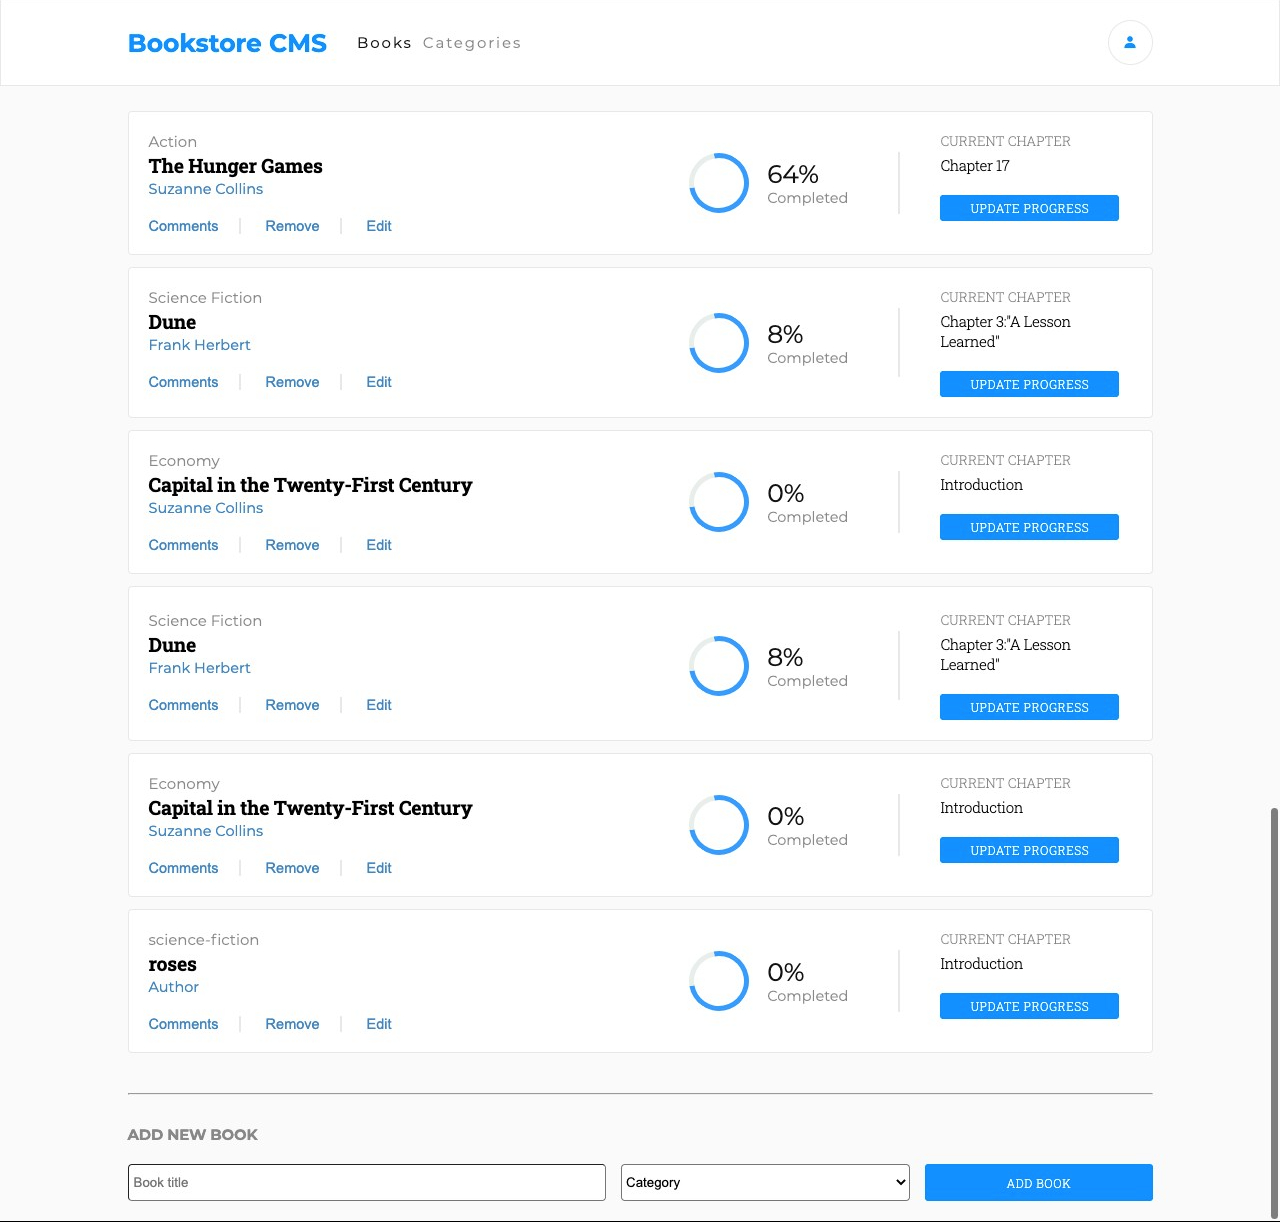
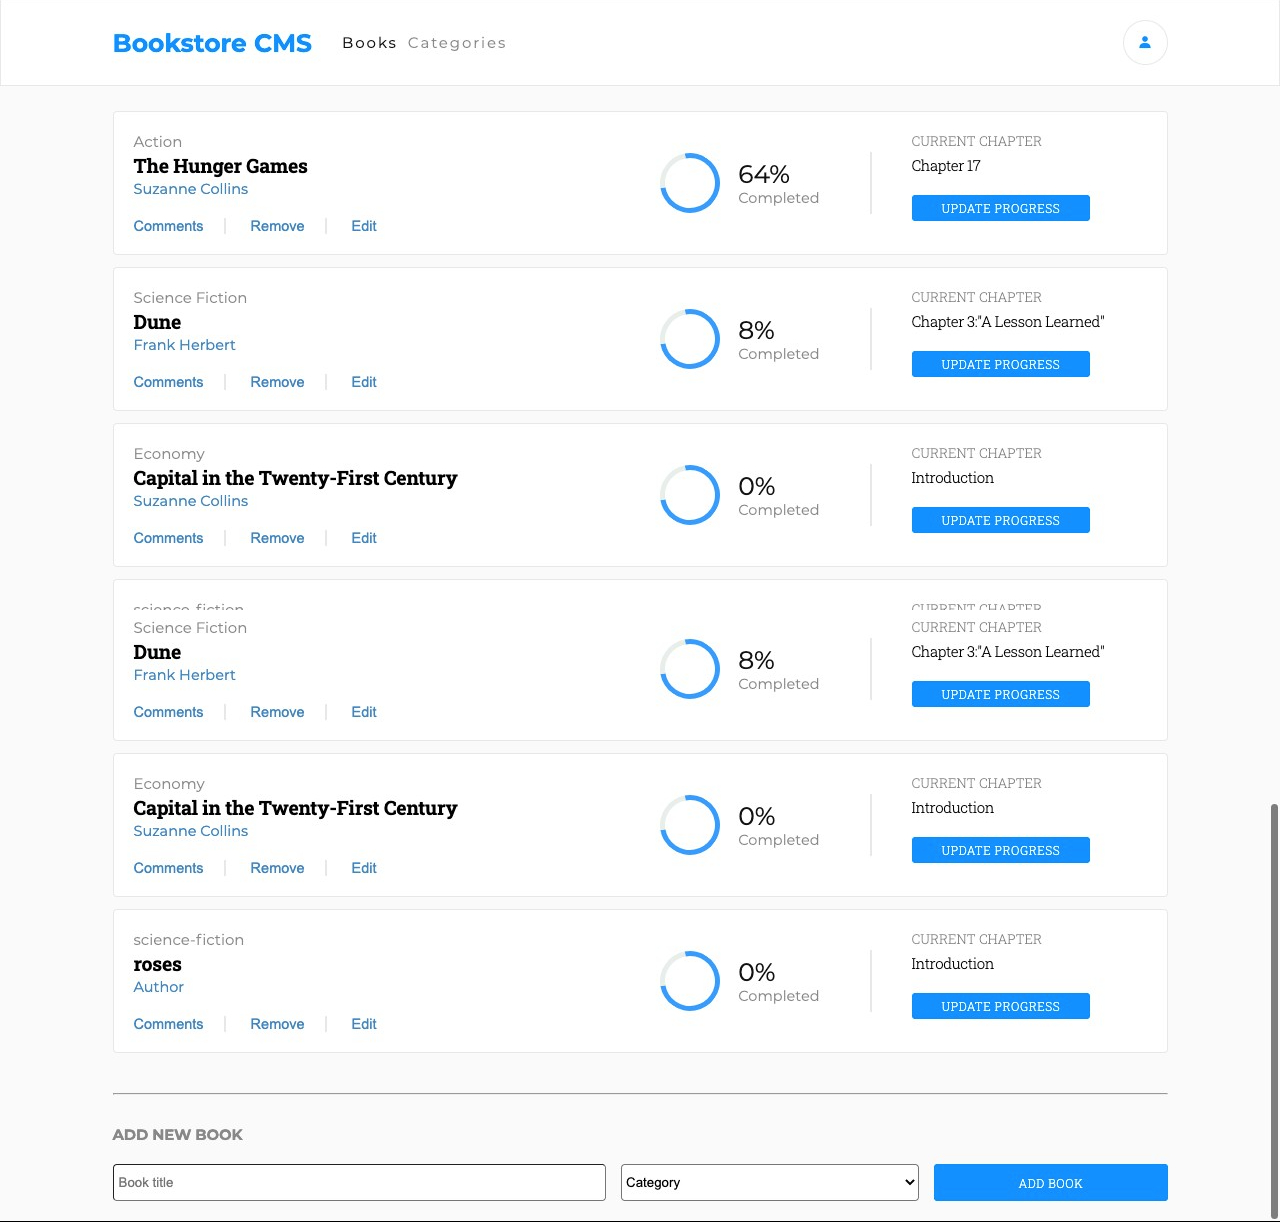
Update screenshot.png

diff --git a/src/components/SingleBook.css b/src/components/SingleBook.css
@@ -21,12 +21,12 @@
 }
 
 .book-panel__summary {
-  width: 55%;
+  width: 52%;
 }
 
 .book-stats {
   display: flex;
-  width: 45%;
+  width: 48%;
 }
 
 .book-stats__progress {
@@ -110,6 +110,7 @@
 
 .book-chapter {
   text-align: left;
+  flex: 2;
 }
 
 .book-chapter__current {

diff --git a/src/components/Header.css b/src/components/Header.css
@@ -5,7 +5,7 @@
 }
 
 .nav {
-  width: 102.5rem;
+  width: 105.5rem;
   margin: 0 auto;
   padding: 2rem 0;
   display: flex;

diff --git a/src/components/Books.css b/src/components/Books.css
@@ -1,5 +1,5 @@
 .books-container {
-  width: 102.5rem;
+  width: 105.5rem;
   margin: 0 auto;
 }
 
